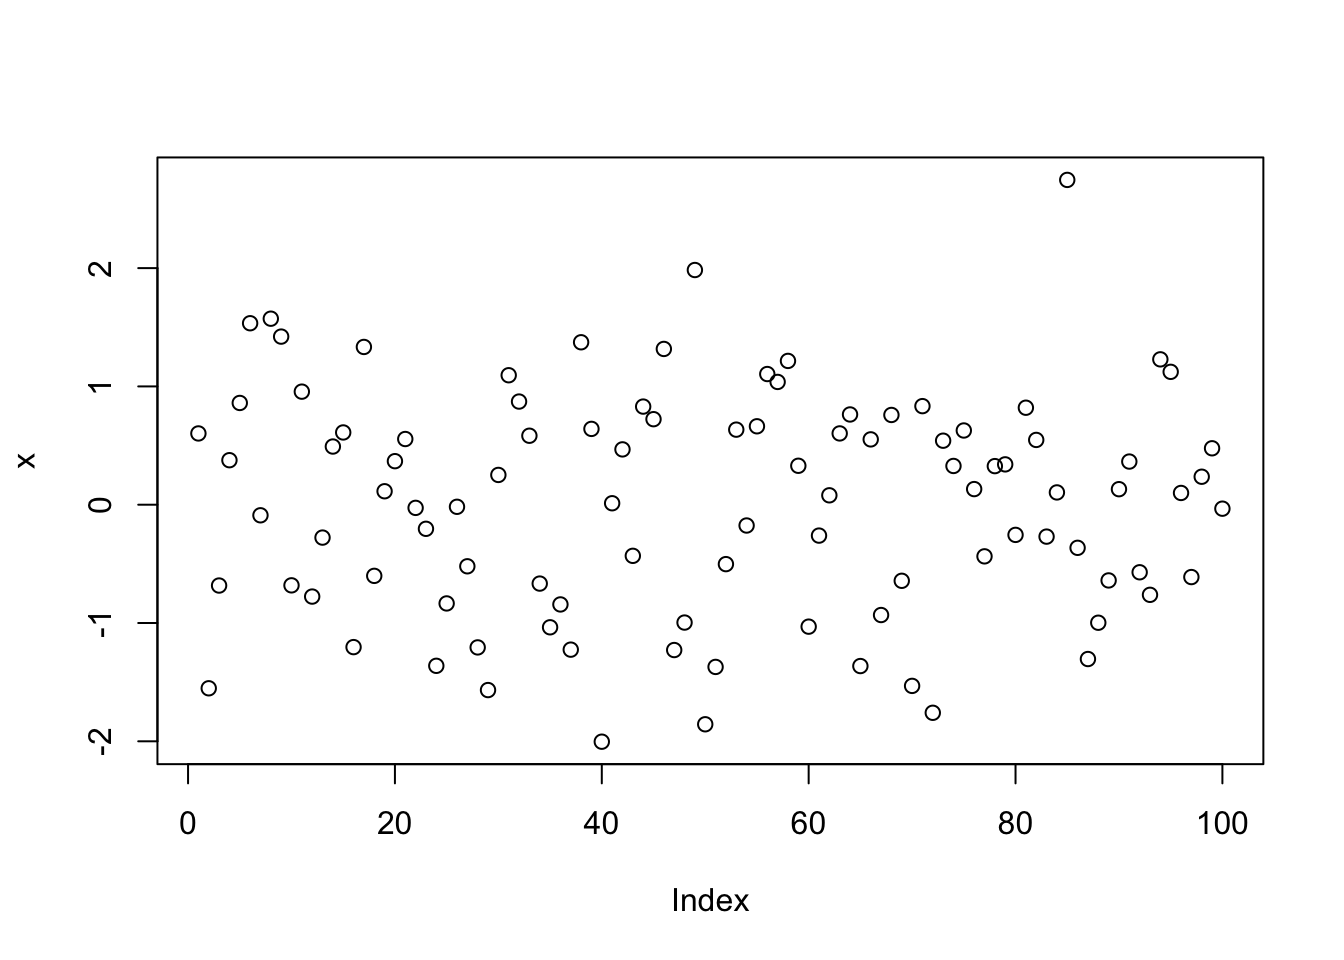
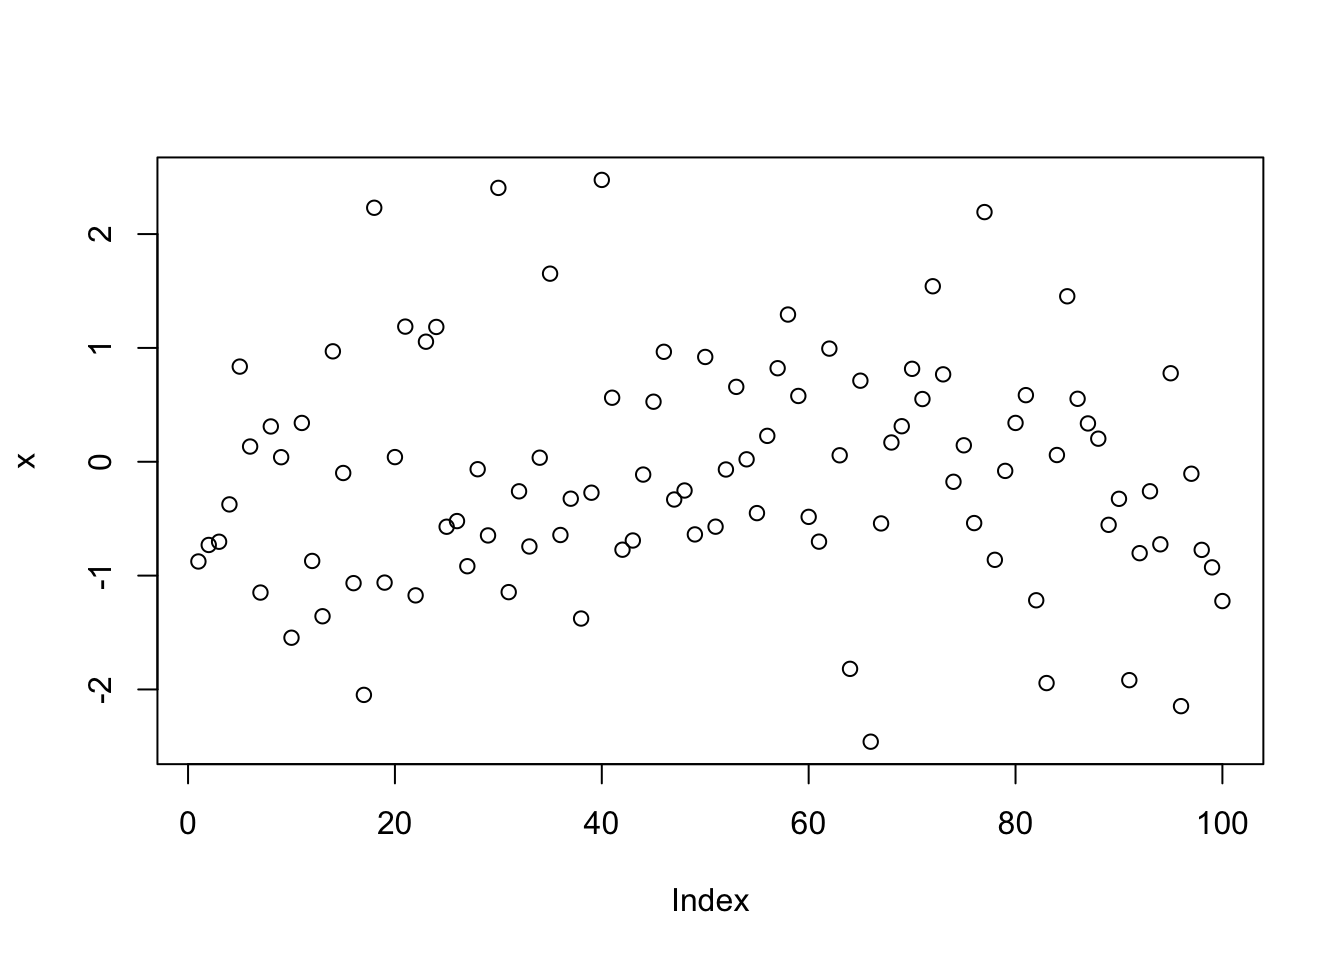
Minor changes title layout

diff --git a/_site/index.html b/_site/index.html
@@ -300,7 +300,7 @@ ul.task-list li input[type="checkbox"] {
 <!-- margin-sidebar -->
     
 <!-- main -->
-<main class="content column-page" id="quarto-document-content"><header id="title-block-header" class="quarto-title-block"></header>
+<main class="content column-page" id="quarto-document-content"><header id="title-block-header" class="quarto-title-block"><h1 class="title display-7">Welcome to the DeMON Lab</h1></header>
 
 
 
@@ -311,31 +311,29 @@ ul.task-list li input[type="checkbox"] {
 </div>
 <div class="content-block">
 <div class="hero-section">
-<section id="welcome-to-the-demon-lab" class="level2 hero-text">
-<h2 class="anchored" data-anchor-id="welcome-to-the-demon-lab">Welcome to the DeMON Lab!</h2>
-<section id="understanding-neurodegenerative-diseases" class="level3">
-<h3 class="anchored" data-anchor-id="understanding-neurodegenerative-diseases">Understanding Neurodegenerative Diseases</h3>
+<section id="welcome-to-the-demon-lab" class="level1 hero-title">
+
+<div class="hero-text">
 <p>We develop computational approaches integrating neuroimaging and multi-omics data to understand disease progression in Alzheimer’s and other neurodegenerative disease.</p>
 <p>Our work combines statistical learning, disease progression modelling, neuroimaging, and molecular profiling to identify biologically meaningful disease subtypes and early pathological change.</p>
 <div class="hero-buttons">
 <p><a href="./projects.html" class="btn btn-primary btn-lg">Our Research</a></p>
 <p><a href="./papers.html" class="btn btn-primary btn-lg">Publications</a></p>
 </div>
-</section>
-</section>
+</div>
 <div class="hero-image">
 <p><img src="images/logo_col_type1.png" class="img-fluid"></p>
 </div>
-</div>
-</div>
+</section>
+<p>:::</p>
 <div class="content-block">
 <hr>
 <div class="home-grid">
 <section id="about-the-lab" class="level2 home-about">
 <h2 class="anchored" data-anchor-id="about-the-lab">About the Lab</h2>
 <p>🚧 Website updates in progress. More information coming soon.</p>
-<p>The Dementia Multi-Omics and Neuroimaging (DeMON) Lab at Lund University focuses on computational neuroscience and neurodegenerative disease research.</p>
-<p>We use multimodal datasets, including MRI, PET, transcriptomics, and genetics, to model disease progression and better understand the biological mechanisms underlying dementia.</p>
+<p>Our lab’s main focus is in aging and neurodegenerative disease research, where we take advantage of large data resources to model disease progression and discover contributions to disease pathogenesis. Some of our lab’s principal research avenues include characterizing individual difference in disease progression, predicting the neurobiological progression of neurodegenerative diseases, and modeling the earliest biological changes that lead to neurodegenerative syndromes. Our work achieves these goals by blending large neuroimaging and multi-omic datasets, and applying to these datasets supervised and unsupervised methods in statistical learning and disease progression modeling.</p>
+<p>Our research group is also privileged with a large network of collaborators that help push forward the lab’s research goals by providing both expert domain knowledge and rare datasets. The group boasts a sophistication in many statistical approaches and an expertise in many types of datasets. We also have a commitment to open science, FAIR principals and contributing to the greater research community.</p>
 </section>
 <section id="latest-news" class="level2 home-news">
 <h2 class="anchored" data-anchor-id="latest-news">Latest News</h2>
@@ -354,6 +352,8 @@ ul.task-list li input[type="checkbox"] {
 </div>
 
 
+</div>
+</div>
 
 </main> <!-- /main -->
 <script id="quarto-html-after-body" type="application/javascript">